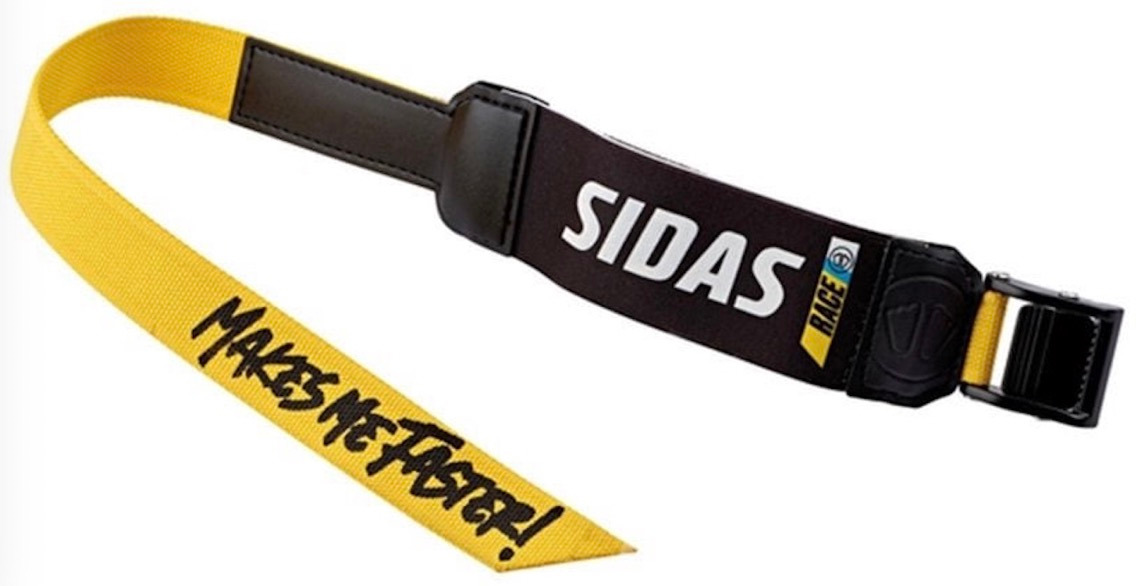
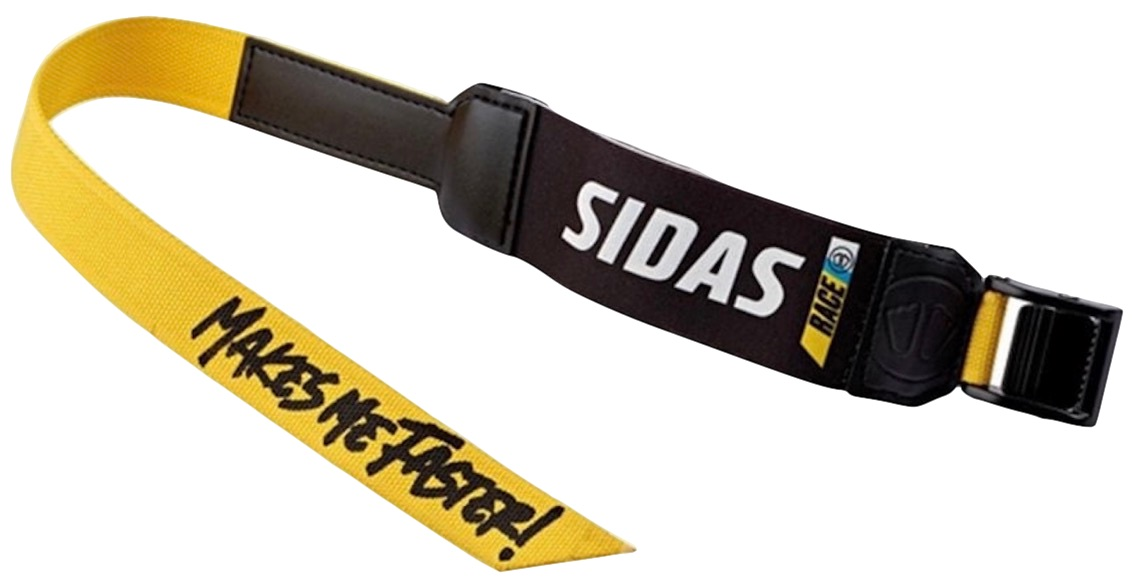
Update Category Headers
-Include header for Fitness post
-Replace Sidas picture to full white background
-Update img descriptions

diff --git a/_posts/2023-10-30-powerstraps-deep-dive.md b/_posts/2023-10-30-powerstraps-deep-dive.md
@@ -33,7 +33,7 @@ The power strap sets itself apart by being able to adapt to your unique needs. I
 The fit is important to any piece of gear but a power strap can help reduce overall movement in the feet to feel comfortable all the way to the last run. By eliminating pressure points and unnecessary movement, the power strap keep your foot where it needs to be throughout the turn to help provide the best feedback from the skis and the boots.
 
 ![Well used 2021 HEAD Raptor WCR 4 ski boots.](/assets/img/head-boots-buckles.jpeg)
-*Well used 2021 HEAD Raptor WCR 4 ski boots.*
+*Photo: Well used 2021 HEAD Raptor WCR 4 ski boots.*
 
 ### Types
 
@@ -62,7 +62,7 @@ Ski boots will often come with a stock power strap that is velcro based. These a
 These have been the go-to power strap for anyone looking for aftermarket power straps. Now that the Booster Strap patent has expired, we are seeing manufacturers making their own elastic power straps. But Booster still remains the king for a reason. Being the first to create and patent the elastic characteristics, Booster has had a long time to cement itself into the memory of those young and old. Still after years of use, sometimes the oldest straps are the best.
 
 ![Expert/Racer Booster Straps showing cam-style buckle](/assets/img/booster-power-strap.jpeg)
-*Expert/Racer Booster Straps showing cam-style buckle*
+*Photo: Expert/Racer Booster Straps showing cam-style buckle*
 
 Booster straps combine their elasticity with the simplicity of a cam-style buckle that let's you cinch and tighten better than most available static straps. But not overdoing it is part of the battle too. Booster Straps are not fool proof and still need to be appropriately tightened but not overly tight.
 
@@ -72,7 +72,7 @@ Lately, manufacturers have also been offering solutions that can be bought seper
 
 **Atomic** - Redster Professional Dual Strap
 ![Atomic Redster Professional Dual Strap](/assets/img/atomic-dual-strap.jpeg)
-*Atomic Redster Professional Dual Strap*
+*Photo: Atomic Redster Professional Dual Strap*
 
 Atomic has been taking their boots to a whole new level in recent years. Starting in their racing series of Redster, the Atomic Professional Dual Strap has seen many iterations. By seeking to incorporate the best of both worlds, elastic *and* static, Atomic has made something that is quite interesting. The bottom is an elastic strap that overlays the cuff of the boot while taking cues from the Booster Strap. While the top half is a traditional velcro strap that lays over the tongue of the liner giving a firm hold of the tongue to the boot. Both of these are then paired with a cam-style buckle makes these a very versatile choice
 

diff --git a/_posts/2023-09-29-preseason-prep.md b/_posts/2023-09-29-preseason-prep.md
@@ -7,10 +7,14 @@ tags: [Ski,Preseason,Fitness,Running,Motivation,Exercise,Off-season,Preseason Fi
 image: running-shoes-1.jpeg
 ---
 
-## <center>Preseason Fitness</center>
-### <center>The Key to a Rewarding Season</center>
+## <center>Preseason</center>
+
+As the season draws closer, we'll look into the best things you can do to make your winter more enjoyable and safer too. These will range from things you can do for your fitness and mental preparation or also gear oriented changes that you can make before the season starts. Be sure to give each a good read and make a decision of what is best for you.
 
 ***
+
+### <center>Fitness</center>
+#### <center>The Key to a Rewarding Season</center>
 
 As winter approaches, every skier anxiously awaits the first dusting and hopes for the endless powder days. However, before you hit the slopes, it's crucial to prepare your body for the physical demands of skiing. Just like saving money, a little bit of targetted exercise each day can unlock better technique, enable you to chase the powder longer each day, reduce the risk of injuries, and keep you healthier to continue skiing well into the future.
 
